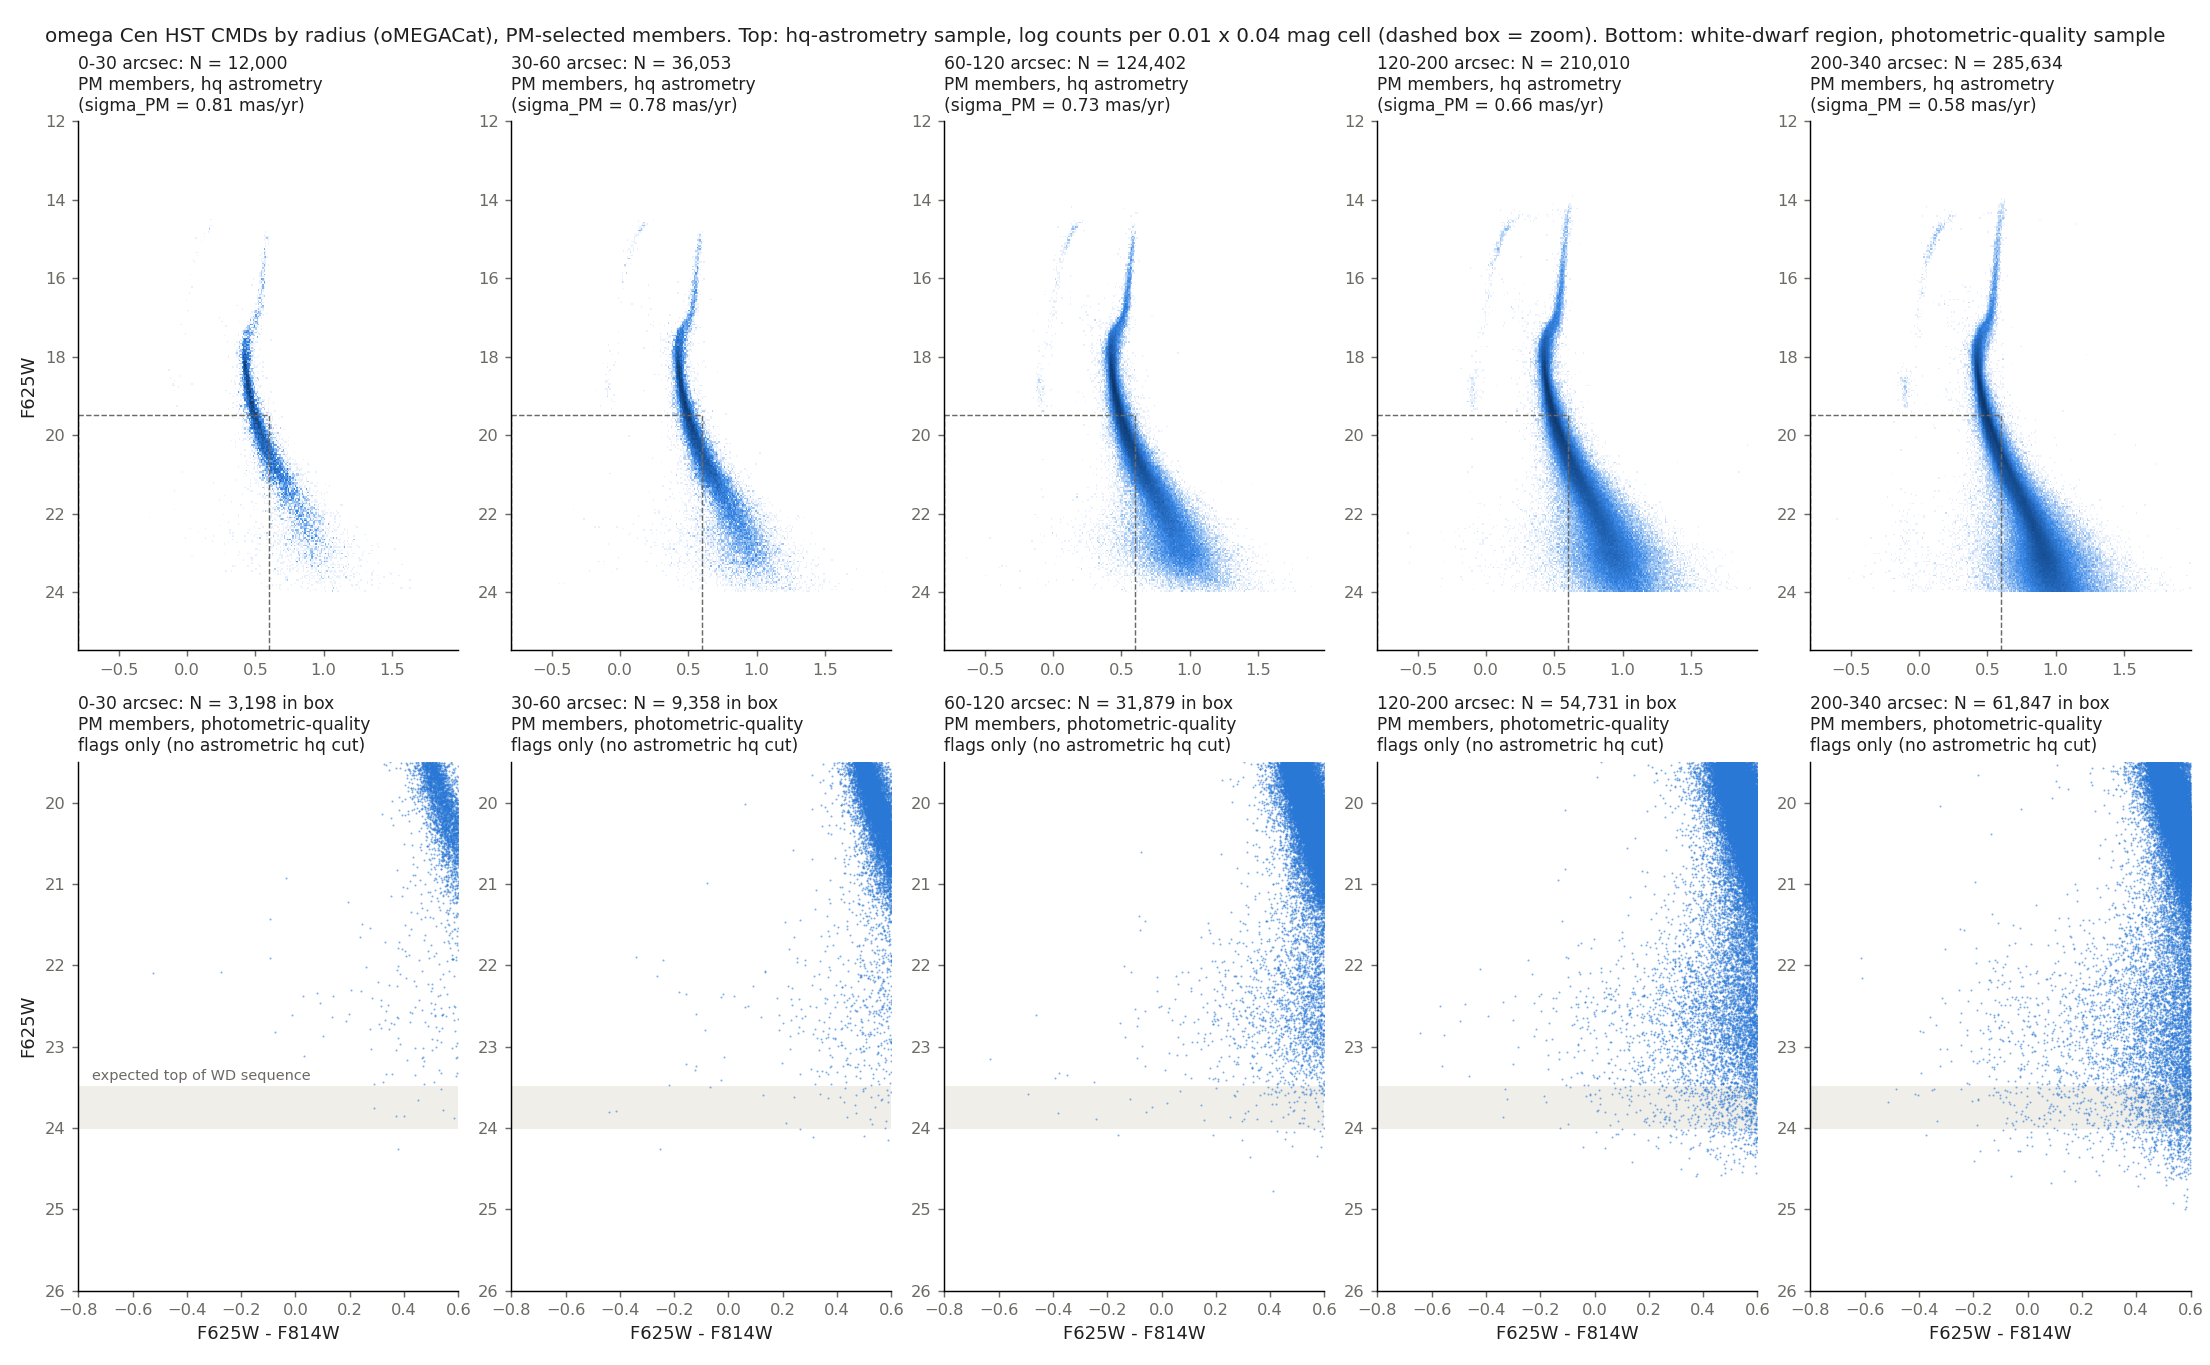
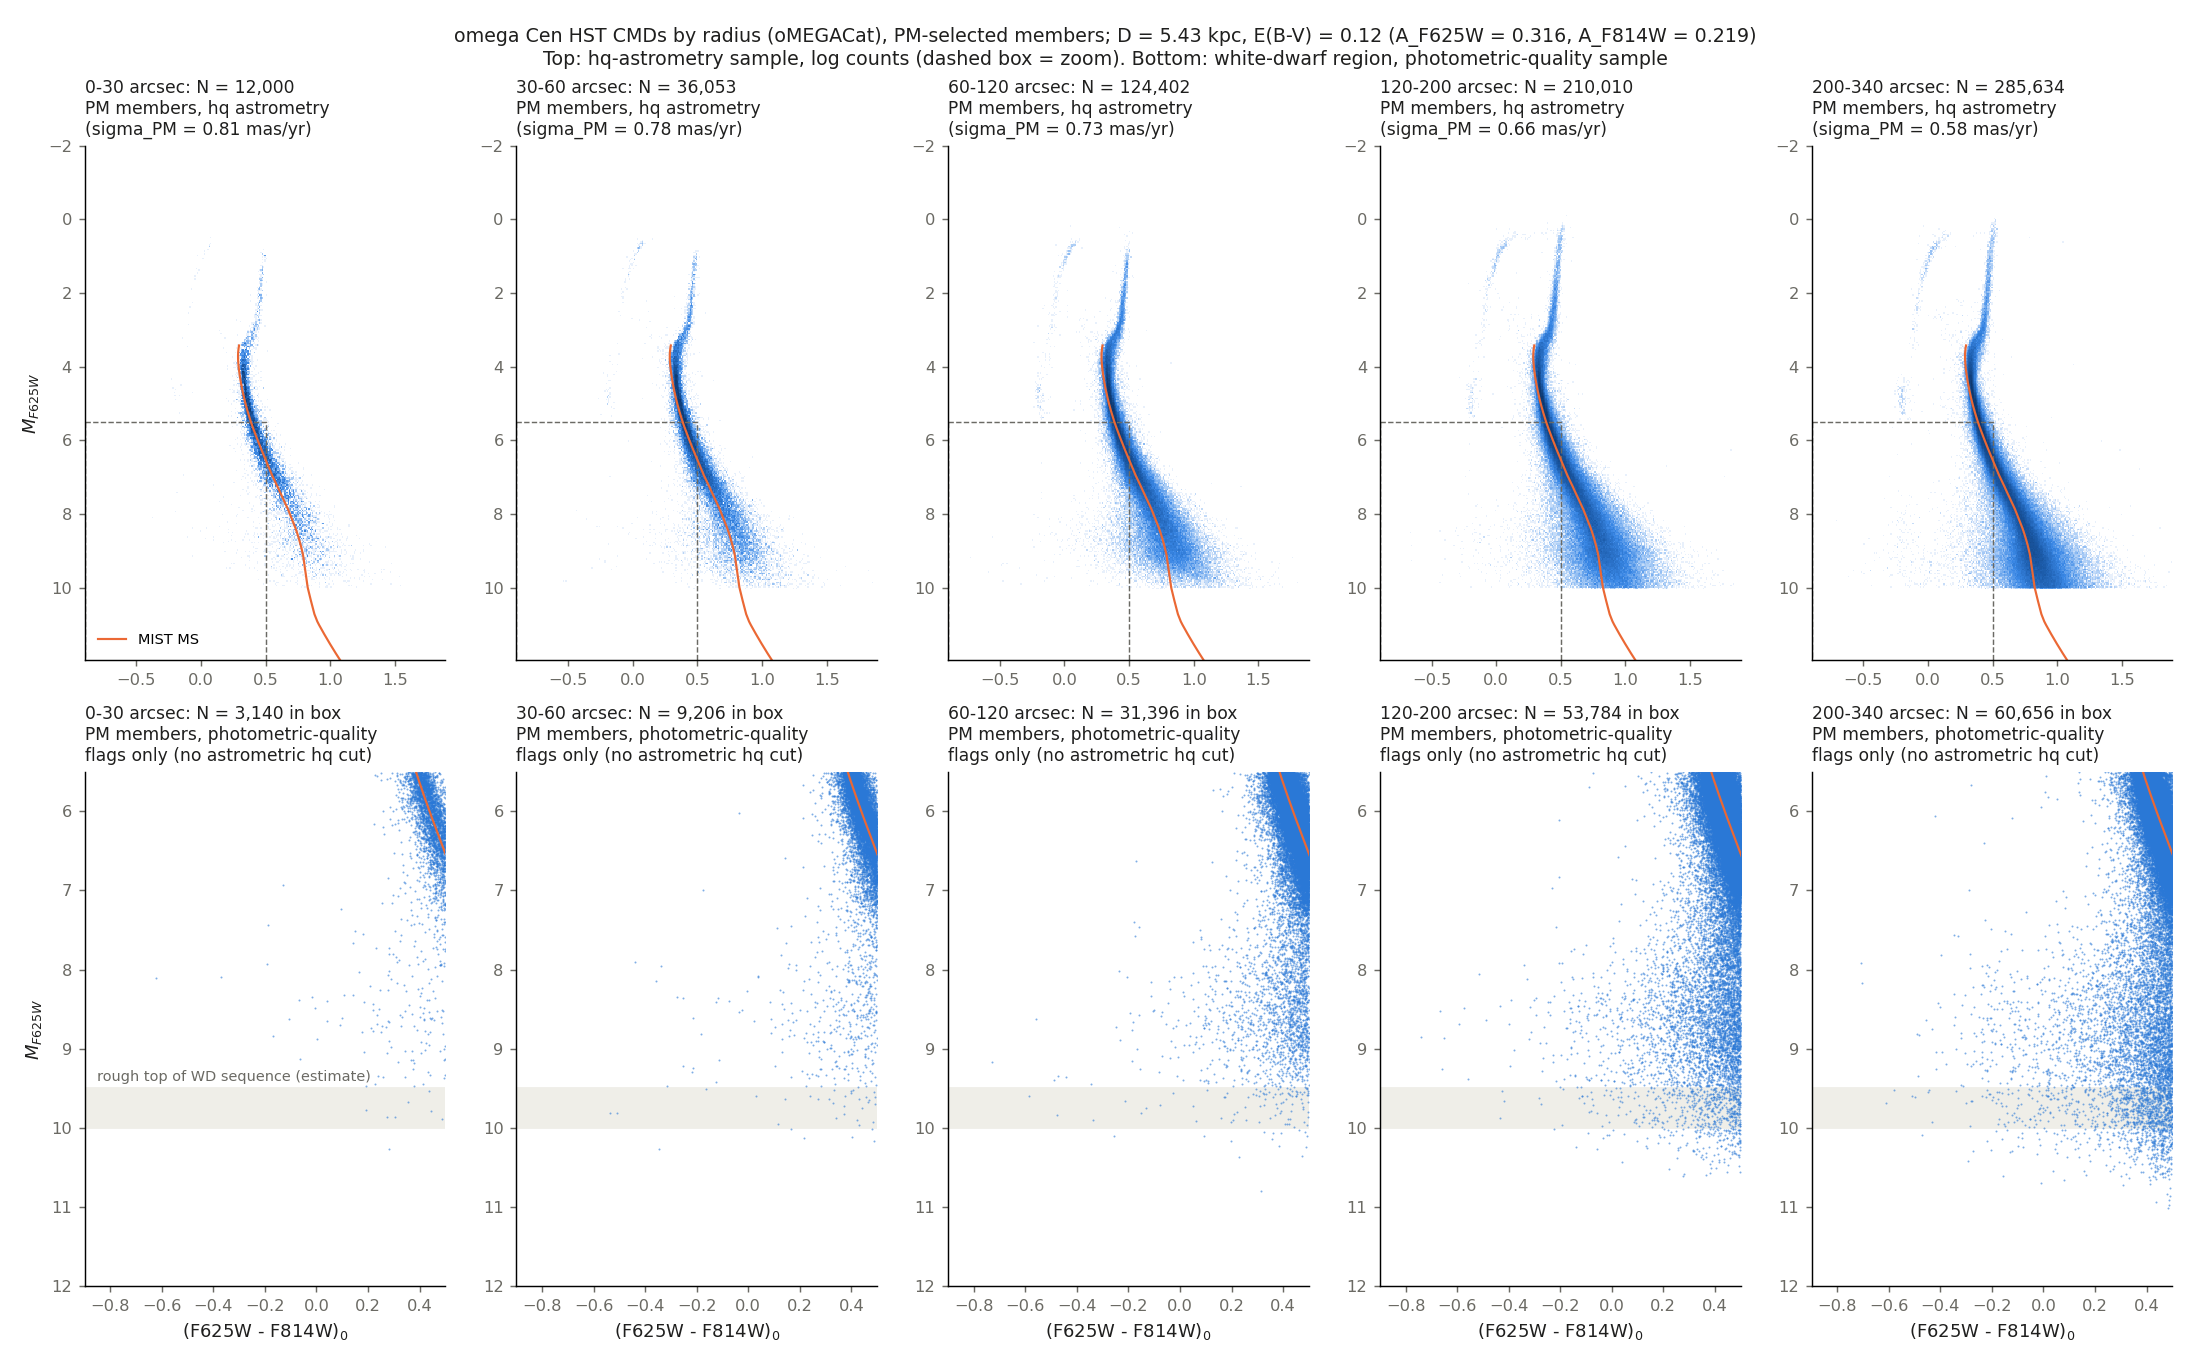
CMDs in absolute magnitude, dereddened (D 5.43 kpc, E(B-V) 0.12, MIST extinctions), MIST MS overlay

diff --git a/bin/plot_cmd_radial.py b/bin/plot_cmd_radial.py
@@ -21,9 +21,13 @@ cloud of poorly measured stars and no sequence (tested 2026-10-08). Estimated st
 cooling sequence: (m-M)_0 = 13.67 (5.43 kpc), A_F625W ~ 0.32 (E(B-V) = 0.12) -> F625W ~ 23.5-24 for
 M ~ 9.5-10, i.e. within ~1 mag of the depth of this catalogue (photometric-quality sample 99.9th
 percentile F625W = 25.2), so at most the top of the sequence is accessible.
-Colour F625W - F814W, magnitude F625W (Vega, not extinction-corrected; E(B-V) ~ 0.12 for omega Cen).
+Absolute magnitudes and dereddened colour: M_F625W = F625W - (m-M)_0 - A_F625W, colour
+(F625W - F814W)_0, with D = 5.43 kpc and E(B-V) = 0.12 (Harris), A_V = 3.1 E(B-V), filter extinctions
+from the MIST bolometric-correction tables (A_band = BC(A_V=0) - BC(A_V), median over the main
+sequence), exactly as in bin/build_mass_function.py: A_F625W = 0.316, A_F814W = 0.219. Overlaid:
+MIST v1.2 main sequence (ACS F625W/F814W; age 12.5 Gyr, [Fe/H] = -1.53, the mass-function ridge fit).
 
-Usage: python bin/plot_cmd_radial.py [--edges 0 30 60 120 200 340]
+Usage: python bin/plot_cmd_radial.py [--edges 0 30 60 120 200 340] [--distance 5.43] [--ebv 0.12]
 Output: plots/cmd_radial_omegacat.png, results/plot_data/cmd_radial_omegacat.json (counts per annulus).
 """
 from __future__ import annotations
@@ -46,19 +50,30 @@ from astropy.io import fits
 
 RAMP = LinearSegmentedColormap.from_list("blue", ["#e8f0fb", "#9ec5f4", "#3987e5", "#1c5cab", "#0d366b"])
 INK, MUTED = "#1f1f1e", "#6b6a64"
-CBINS = np.arange(-0.8, 2.0, 0.01)
-MBINS = np.arange(12.0, 25.5, 0.04)
+CBINS = np.arange(-0.9, 1.9, 0.01)
+MBINS = np.arange(-2.0, 12.0, 0.04)
 
 
 def main():
     p = argparse.ArgumentParser(description=__doc__.splitlines()[0])
     p.add_argument("--edges", nargs="+", type=float, default=[0, 30, 60, 120, 200, 340])
+    p.add_argument("--distance", type=float, default=5.43, help="kpc")
+    p.add_argument("--ebv", type=float, default=0.12)
+    p.add_argument("--feh", type=float, default=-1.53, help="isochrone [Fe/H] (overlay only)")
+    p.add_argument("--age", type=float, default=12.5, help="isochrone age [Gyr] (overlay only)")
     args = p.parse_args()
+    sys.path.insert(0, str(ROOT/"bin"))
+    from build_mass_function import BANDS, Isochrone
+    iso = Isochrone(args.age, args.feh, args.distance, args.ebv)
+    dm0, a6, a8 = iso.dm0, iso.a625, iso.a814
+    iso_M = iso.m625 - dm0 - a6
+    iso_c = (iso.m625 - iso.m814) - (a6 - a8)
     t = fits.open(ROOT/"data/raw/omegacat_vi_kinematics/catalog_and_selections.fits", memmap=True)[1].data
     x = -0.04*(np.asarray(t["x"], float)-15000.)
     y = 0.04*(np.asarray(t["y"], float)-15000.)
     R = np.hypot(x, y)
-    f6, f8 = np.asarray(t["f625w"], float), np.asarray(t["f814w"], float)
+    f6 = np.asarray(t["f625w"], float) - dm0 - a6           # absolute, dereddened
+    f8 = np.asarray(t["f814w"], float) - dm0 - a8
     hq = np.asarray(t["selection_hq_astrometry"]) == 1
     flag = np.asarray(t["selection_hq_astrometry_and_membership"]) == 1
     ma, md = np.asarray(t["pmra_corrected"], float), np.asarray(t["pmdec_corrected"], float)
@@ -68,7 +83,8 @@ def main():
     n = len(edges)-1
     fig, axes = plt.subplots(2, n, figsize=(3.4*n, 10.5))
     loose = good & np.isfinite(ma) & np.isfinite(md) & (np.asarray(t["selection_hq_f625w"]) == 1) & (np.asarray(t["selection_hq_f814w"]) == 1)
-    out = dict(source="oMEGACat catalog_and_selections.fits", edges_arcsec=edges, annuli=[])
+    out = dict(source="oMEGACat catalog_and_selections.fits", edges_arcsec=edges, distance_kpc=args.distance, ebv=args.ebv,
+               dm0=dm0, A_F625W=a6, A_F814W=a8, isochrone=dict(age_gyr=args.age, feh=args.feh, bands=BANDS), annuli=[])
     for i in range(n):
         ann = (R >= edges[i]) & (R < edges[i+1]) & good & hq & np.isfinite(ma) & np.isfinite(md)
         core = ann & (np.hypot(ma, md) < 3)
@@ -79,7 +95,7 @@ def main():
         sel_m = ann & (chi2 < 11.83)
         ring = (R >= edges[i]) & (R < edges[i+1])
         sel_w = ring & loose & (chi2 < 11.83)
-        wd = sel_w & (f6-f8 < 0.6) & (f6 > 19.5)
+        wd = sel_w & (f6-f8 < 0.5) & (f6 > 5.5)
         out["annuli"].append(dict(r_in=edges[i], r_out=edges[i+1], sigma_pm_masyr=sig, n_hq=int(ann.sum()),
                                   n_pm_members=int(sel_m.sum()), n_pm_nonmembers=int((ann & ~(chi2 < 11.83)).sum()),
                                   n_loose_pm_members=int(sel_w.sum()), n_loose_members_in_wd_box=int(wd.sum())))
@@ -89,26 +105,30 @@ def main():
         ax.set_xlim(CBINS[0], CBINS[-1]); ax.set_ylim(MBINS[-1], MBINS[0])
         ax.set_title(f"{edges[i]:.0f}-{edges[i+1]:.0f} arcsec: N = {sel_m.sum():,}\nPM members, hq astrometry\n"
                      f"(sigma_PM = {sig:.2f} mas/yr)", fontsize=9.5, color=INK, loc="left")
-        ax.add_patch(plt.Rectangle((-0.8, 19.5), 1.4, 6.5, fill=False, ec=MUTED, lw=0.8, ls="--"))
+        ax.add_patch(plt.Rectangle((-0.9, 5.5), 1.4, 6.5, fill=False, ec=MUTED, lw=0.8, ls="--"))
+        ax.plot(iso_c, iso_M, "-", color="#eb6834", lw=1.2, label="MIST MS")
+        if i == 0:
+            ax.legend(fontsize=8, frameon=False, loc="lower left")
         ax = axes[1, i]
         ax.plot(f6[wd]-f8[wd], f6[wd], ".", color="#2a78d6", ms=2.2, alpha=0.6, mew=0, rasterized=True)
-        ax.set_xlim(-0.8, 0.6); ax.set_ylim(26, 19.5)
-        ax.axhspan(23.5, 24.0, color="#efeee8", zorder=0)
+        ax.plot(iso_c, iso_M, "-", color="#eb6834", lw=1.2)
+        ax.set_xlim(-0.9, 0.5); ax.set_ylim(12, 5.5)
+        ax.axhspan(9.5, 10.0, color="#efeee8", zorder=0)
         if i == 0:
-            ax.text(-0.75, 23.45, "expected top of WD sequence", fontsize=8, color=MUTED, va="bottom")
+            ax.text(-0.85, 9.45, "rough top of WD sequence (estimate)", fontsize=8, color=MUTED, va="bottom")
         ax.set_title(f"{edges[i]:.0f}-{edges[i+1]:.0f} arcsec: N = {wd.sum():,} in box\nPM members, photometric-quality\n"
                      "flags only (no astrometric hq cut)", fontsize=9.5, color=INK, loc="left")
-        ax.set_xlabel("F625W - F814W", color=INK)
+        ax.set_xlabel("(F625W - F814W)$_0$", color=INK)
         for row in (0, 1):
             a = axes[row, i]
             a.tick_params(colors=MUTED, labelsize=9)
             for sp in ("top", "right"):
                 a.spines[sp].set_visible(False)
             if i == 0:
-                a.set_ylabel("F625W", color=INK)
-    fig.suptitle("omega Cen HST CMDs by radius (oMEGACat), PM-selected members. Top: hq-astrometry sample, log counts per "
-                 "0.01 x 0.04 mag cell (dashed box = zoom). Bottom: white-dwarf region, photometric-quality sample",
-                 fontsize=11, color=INK)
+                a.set_ylabel("$M_{F625W}$", color=INK)
+    fig.suptitle(f"omega Cen HST CMDs by radius (oMEGACat), PM-selected members; D = {args.distance} kpc, E(B-V) = {args.ebv} "
+                 f"(A_F625W = {a6:.3f}, A_F814W = {a8:.3f})\nTop: hq-astrometry sample, log counts (dashed box = zoom). "
+                 "Bottom: white-dwarf region, photometric-quality sample", fontsize=10.5, color=INK)
     fig.tight_layout()
     fig.savefig(ROOT/"plots/cmd_radial_omegacat.png", dpi=130)
     (ROOT/"results/plot_data/cmd_radial_omegacat.json").write_text(json.dumps(out, indent=1))
